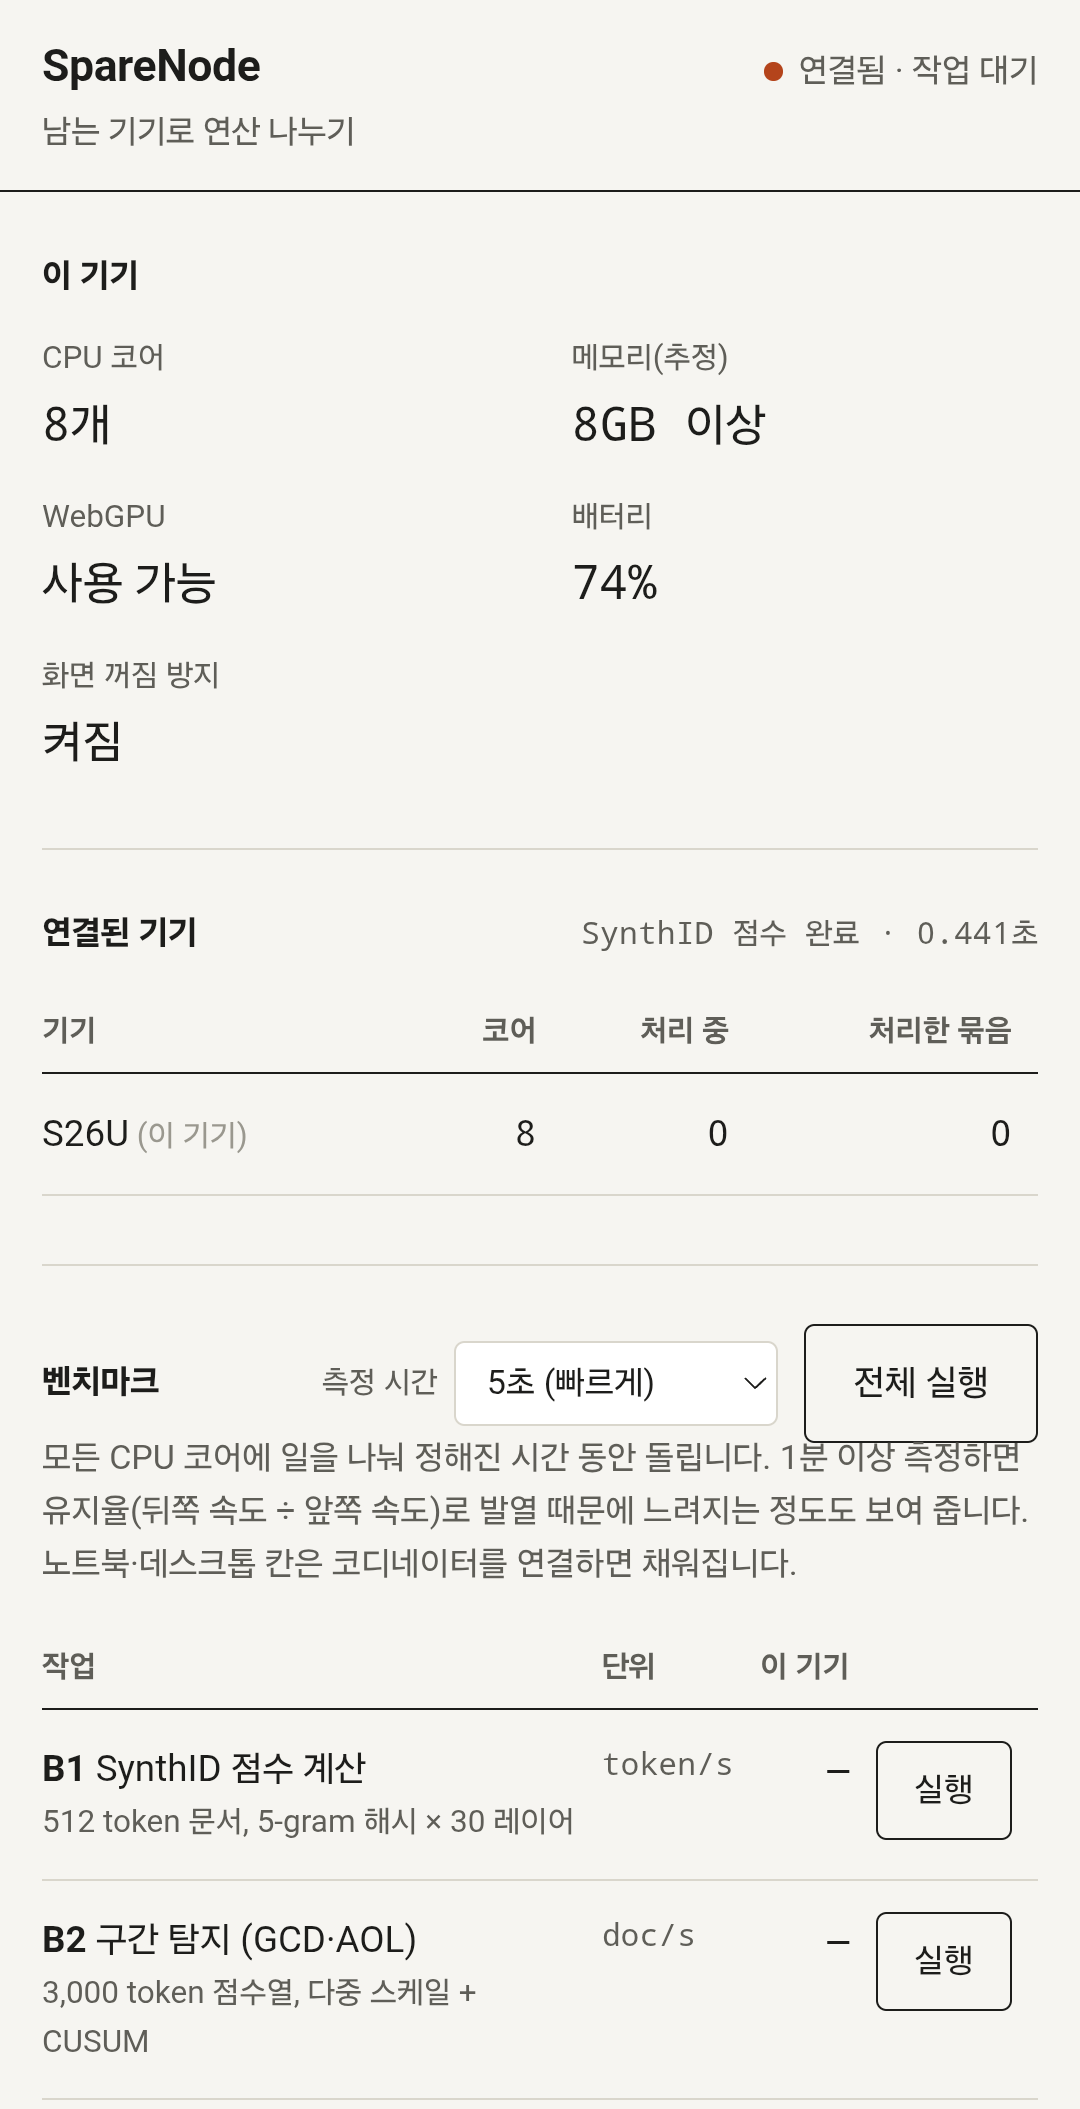
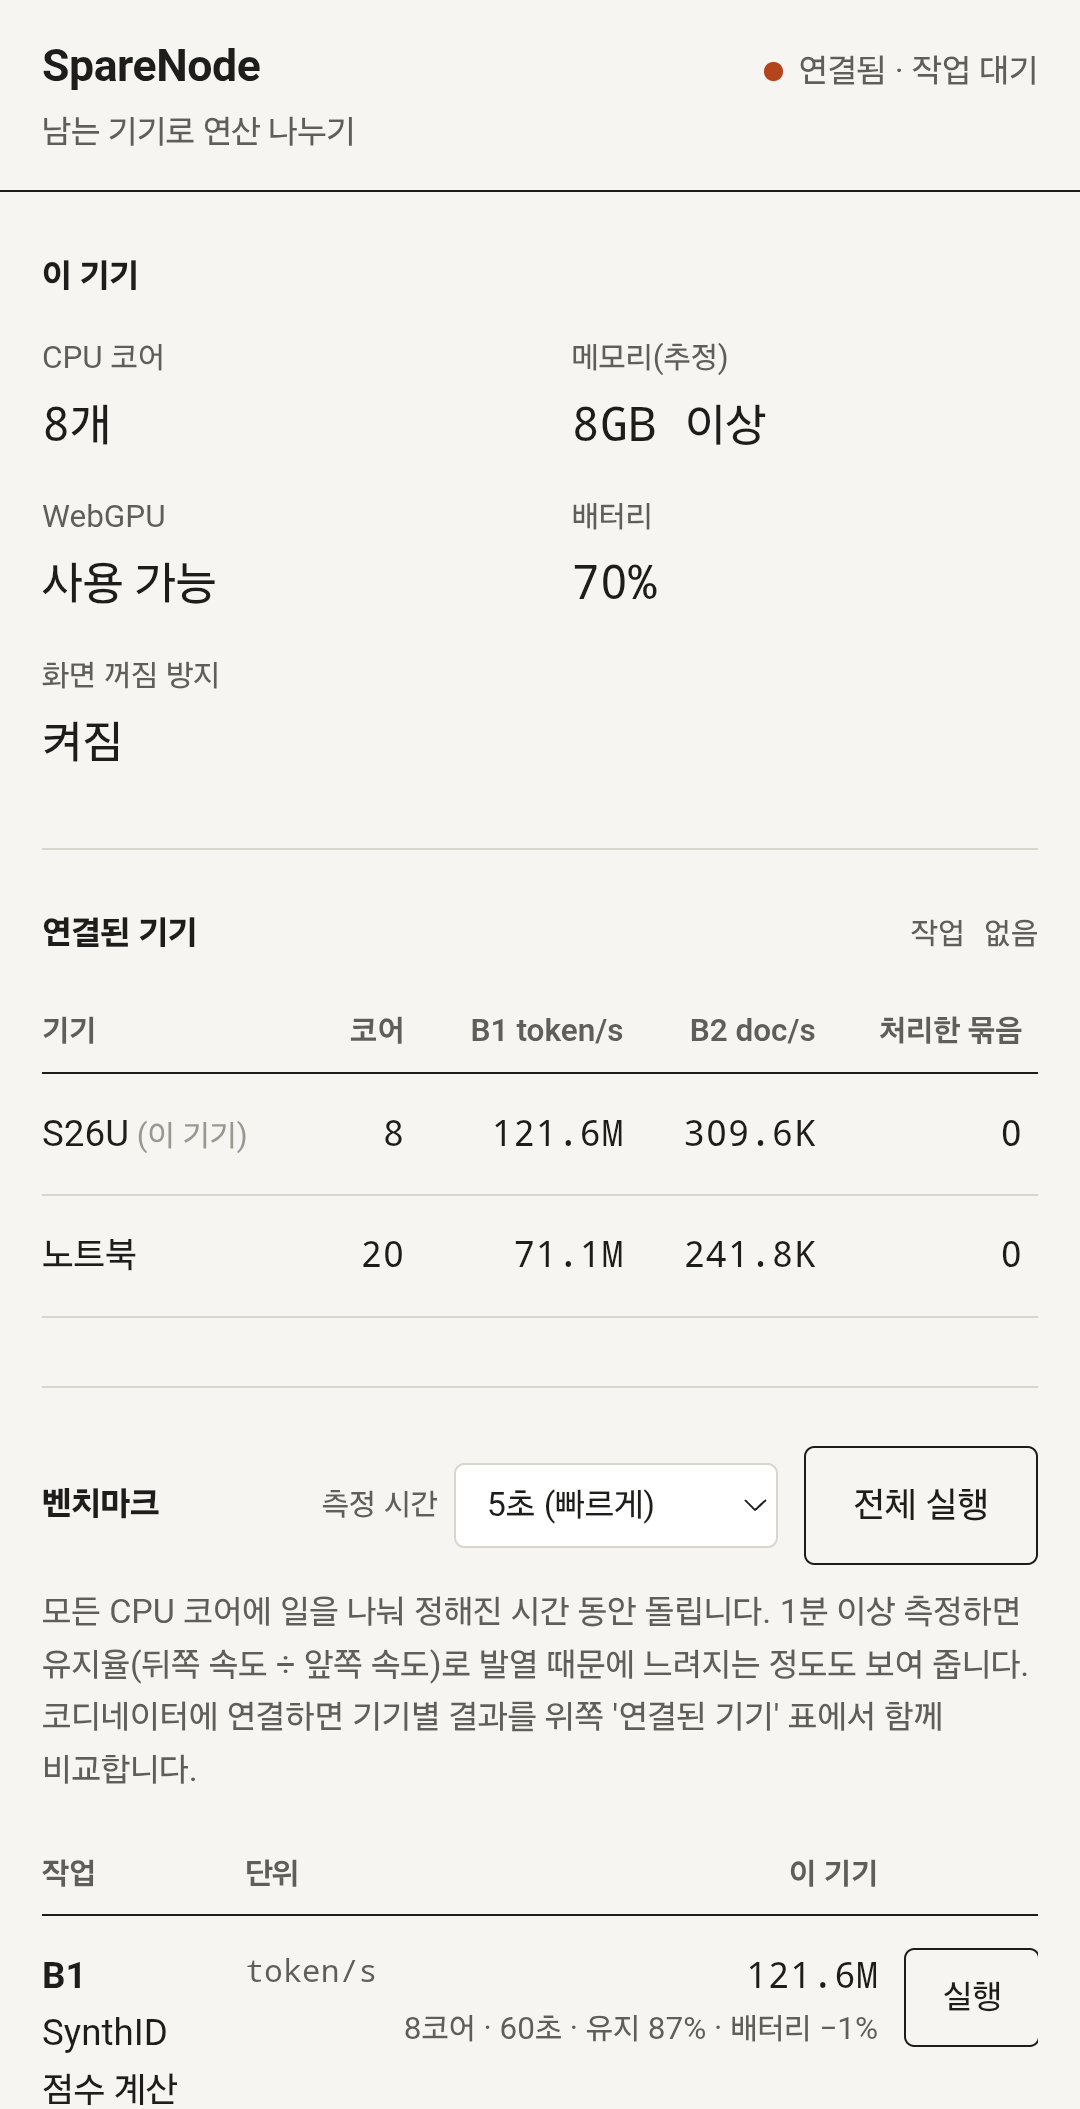
발표 자료의 앱 화면 캡처를 최신 화면으로 교체

diff --git a/presentation/index.html b/presentation/index.html
@@ -210,7 +210,7 @@
     <p class="kicker">앱 화면</p>
     <h2 style="margin-bottom:18px">홈 화면에 설치한 앱이 노트북의 작업을 자동으로 처리</h2>
     <div class="shots">
-      <figure class="shot phone"><img src="img/phone-connected.png" alt="폰 앱: 코디네이터 연결됨, 작업 대기"><figcaption>폰 · 연결됨, 작업 대기</figcaption></figure>
+      <figure class="shot phone"><img src="img/phone-connected.png" alt="폰 앱: 코디네이터 연결됨, 작업 대기"><figcaption>폰 · 연결됨, 기기별 성능 비교</figcaption></figure>
       <figure class="shot phone"><img src="img/phone-working.png" alt="폰 앱: 작업 처리 중 8/8코어"><figcaption>폰 · 작업 처리 중 (8/8코어)</figcaption></figure>
       <figure class="shot phone"><img src="img/phone-bench-log.png" alt="폰 앱: 코디네이터 설정과 작업 기록"><figcaption>폰 · 설정과 작업 기록</figcaption></figure>
       <figure class="shot"><img src="img/laptop-full.png" alt="노트북 화면: 연결된 기기, 벤치마크, 작업 기록" style="width:420px;height:420px;object-position:top left"><figcaption>노트북 · 같은 앱, 넓은 화면</figcaption></figure>
